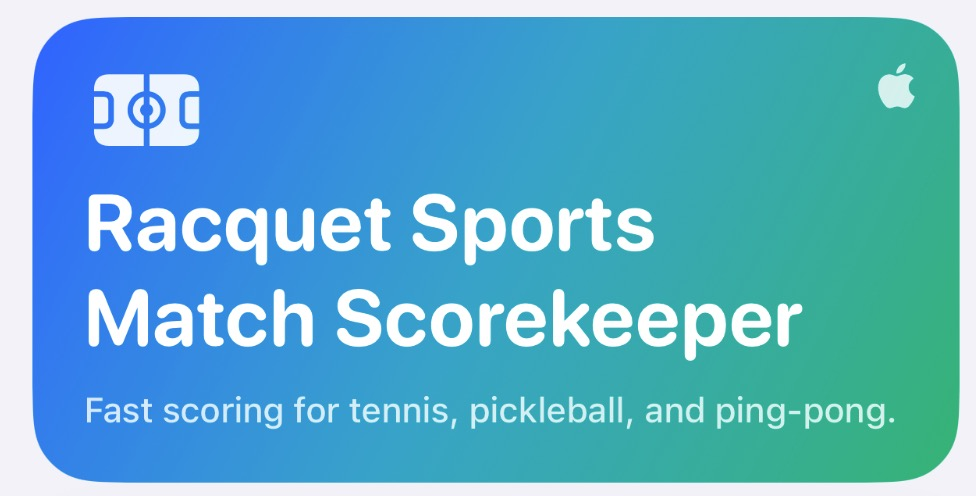
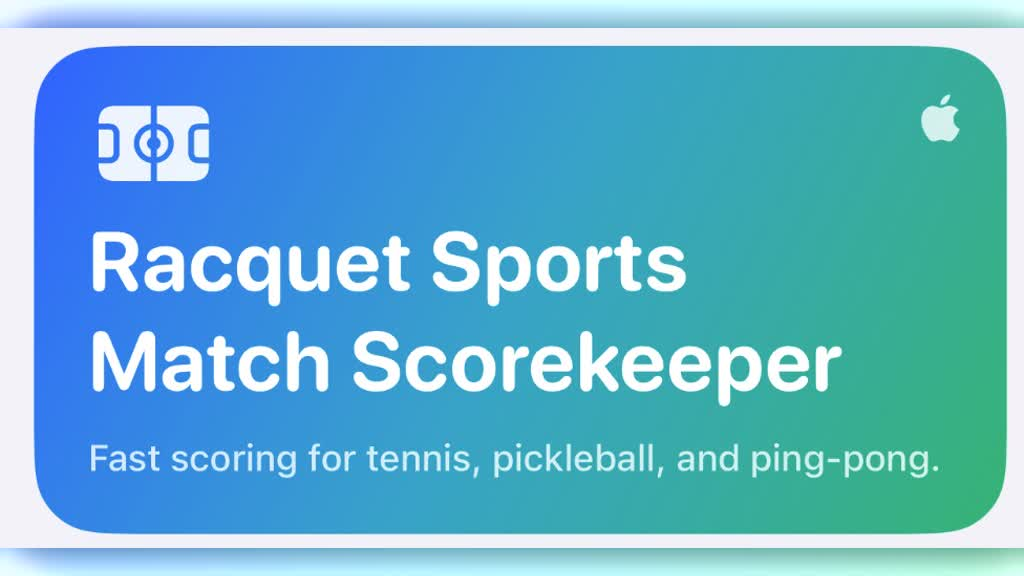
Fix iOS scorer card image crop

diff --git a/Projects/project-page.css b/Projects/project-page.css
@@ -256,8 +256,6 @@ h1 {
 
 .project-media .scorer-banner {
   object-fit: cover;
-  transform: scale(1.1);
-  transform-origin: center;
 }
 
 .project-body {
